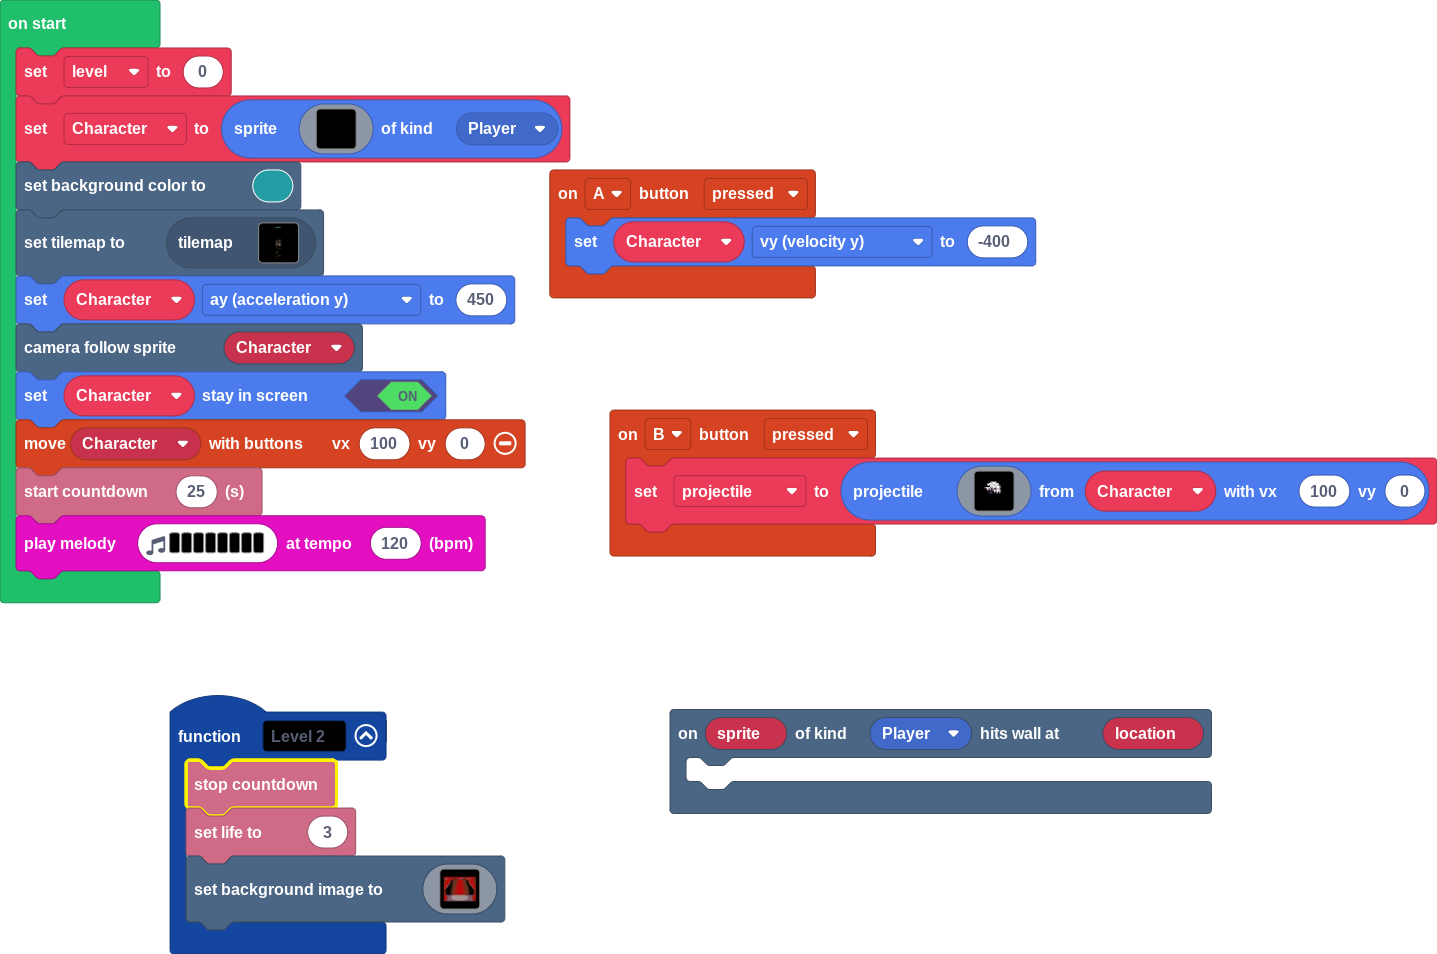
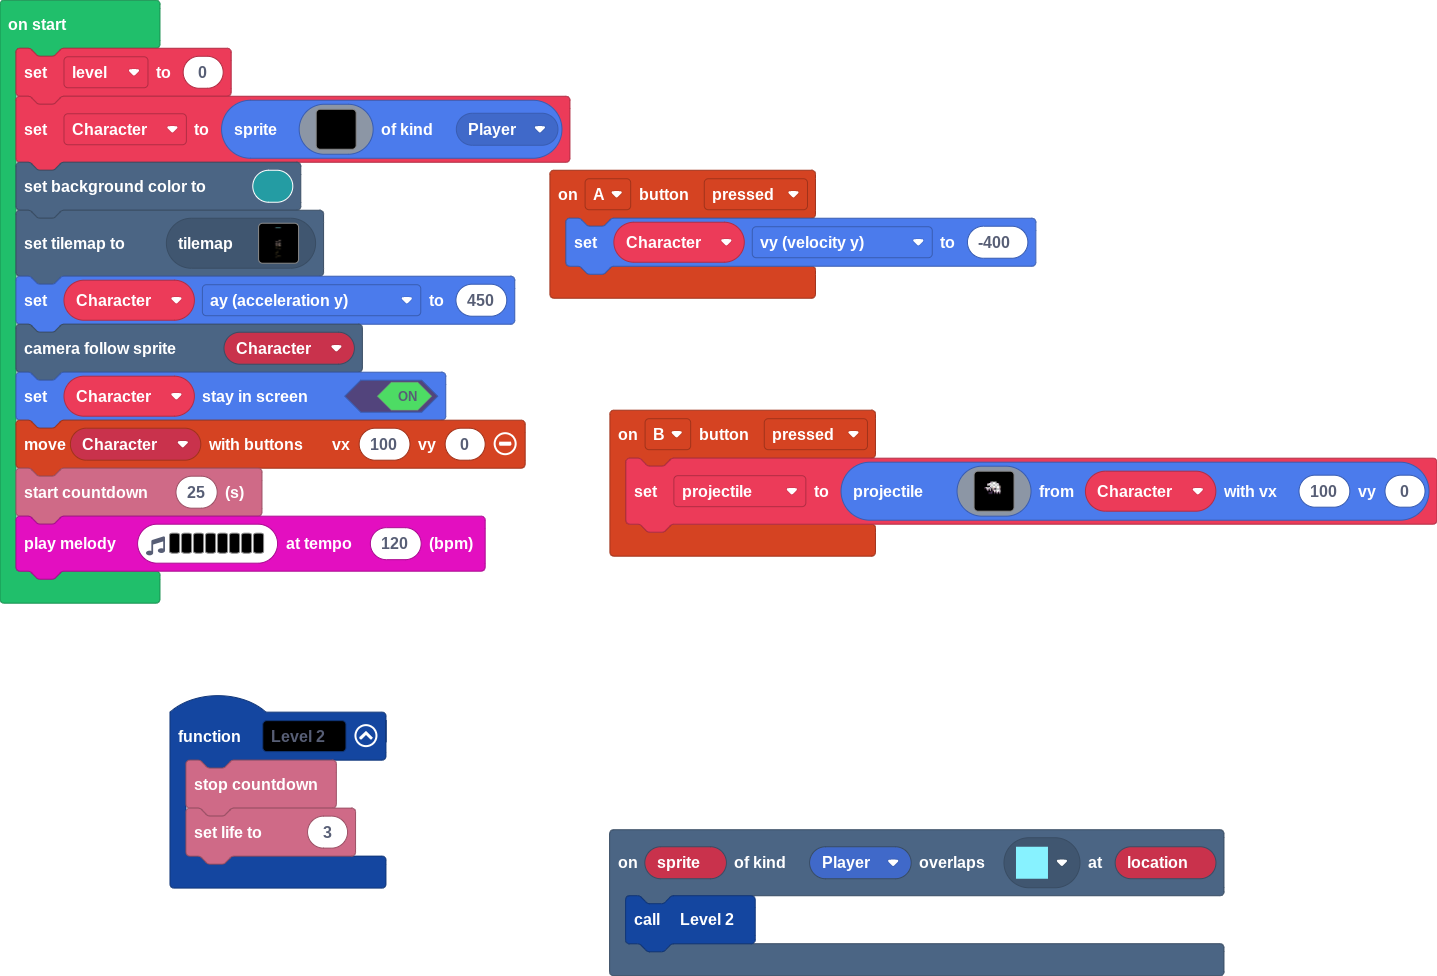
Update main.blocks, main.ts

diff --git a/main.ts b/main.ts
@@ -1,6 +1,3 @@
-scene.onHitWall(SpriteKind.Player, function (sprite, location) {
-	
-})
 controller.B.onEvent(ControllerButtonEvent.Pressed, function () {
     projectile = sprites.createProjectileFromSprite(img`
         ........................
@@ -35,129 +32,10 @@ controller.A.onEvent(ControllerButtonEvent.Pressed, function () {
 function Level_2 () {
     info.stopCountdown()
     info.setLife(3)
-    scene.setBackgroundImage(img`
[120 lines of base64/hex data omitted]
-        `)
 }
+scene.onOverlapTile(SpriteKind.Player, assets.tile`myTile2`, function (sprite, location) {
+    Level_2()
+})
 let projectile: Sprite = null
 let Character: Sprite = null
 let level = 0
